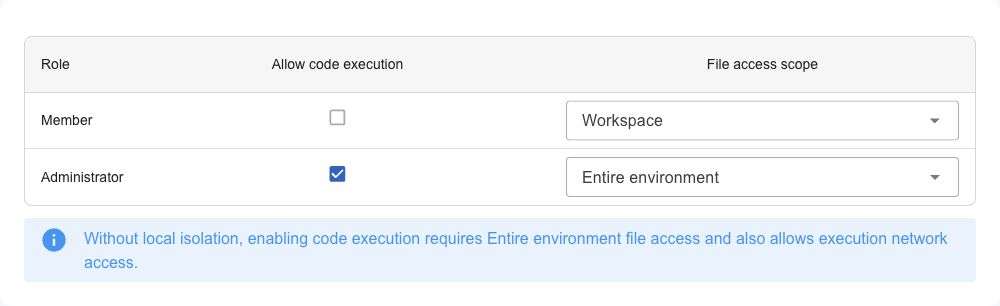
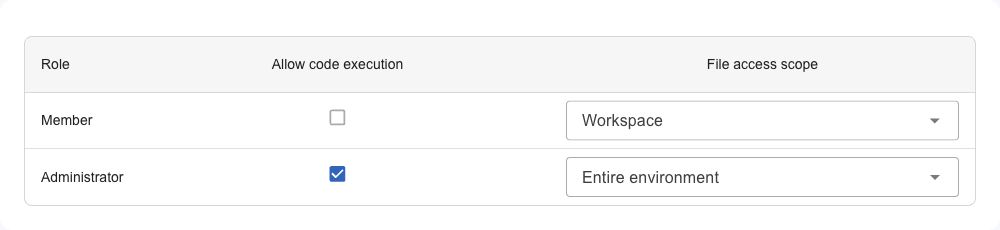
fix: remove persistent local isolation notice

diff --git a/dashboard/src/components/shared/LocalPermissionMatrix.vue b/dashboard/src/components/shared/LocalPermissionMatrix.vue
@@ -108,9 +108,6 @@
         scope: tm(`scopes.${policy(role).filesystem_scope}`)
       }) }}
     </v-alert>
-    <v-alert v-if="isolationUnavailable" type="info" variant="tonal" density="compact">
-      {{ tm('unrestrictedExecutionNotice') }}
-    </v-alert>
     <v-alert v-if="memberHasElevatedAccess" type="warning" variant="tonal" density="compact">
       {{ tm('memberWarning') }}
     </v-alert>

diff --git a/docs/en/use/astrbot-agent-sandbox.md b/docs/en/use/astrbot-agent-sandbox.md
@@ -70,7 +70,7 @@ Saving configuration succeeds even when Local isolation is unavailable, includin
 - Saved permissions are not overwritten. After restoring isolation and restarting AstrBot, tools use the saved execution policy again.
 - The permission matrix identifies each affected role and explains the cause, effective file scope, and unchanged saved permissions. The LLM receives the same explanation in its system instructions and in rejected Shell, Python, and shell-session tool responses. Missing dependencies, unsupported platforms, and startup failures have distinct messages; startup failures include the probe diagnostic.
 
-The permission matrix hides the network column when isolation is unavailable and explains that explicitly enabling entire-environment execution also permits execution network access. The former isolation setup link in the bottom-left corner of the matrix has been removed; use the operating system and Docker instructions below instead.
+The permission matrix hides the network column when isolation is unavailable. The former isolation setup link in the bottom-left corner of the matrix has been removed; use the operating system and Docker instructions below instead.
 
 For example, if an administrator saved workspace-only execution and bubblewrap is missing, the LLM receives this Shell tool response:
 
